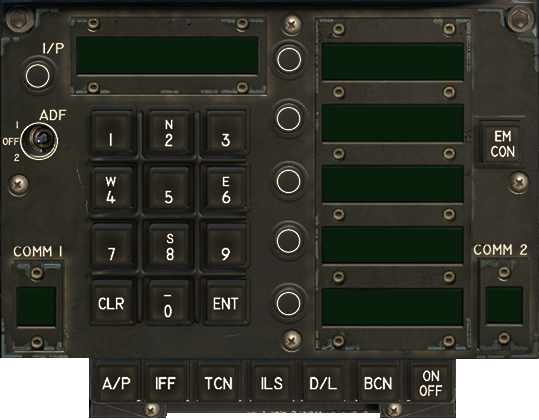
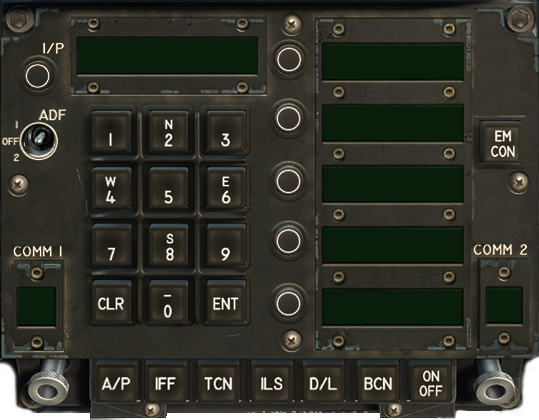
Finished FA-18c UFC

diff --git a/client/components/fa-18c/UFC.tsx b/client/components/fa-18c/UFC.tsx
@@ -4,10 +4,12 @@ import { udp } from "../../scripts/udp";
 import { OptionDisplays } from "./OptionDisplays";
 import { CommDisplays } from "./CommDisplays";
 import { ScratchpadDisplays } from "./ScratchpadDisplays";
+import { ADFmages } from "./ADFImages";
 
-const roundedButton = "absolute top-[19px] w-[56px] h-[56px] rounded-full";
-const squareButton = "absolute w-[56px] h-[56px]";
-const directionalButton = "absolute w-[40px] h-[43px]";
+const roundedButton = "absolute w-[33px] h-[33px] rounded-full";
+const squareButton = "absolute w-[42px] h-[42px]";
+const directionalButton = "absolute w-[40px] h-[30px]";
+const knob = "absolute w-[30px] h-[40px] rounded-lg bg-orange-800 opacity-25";
 
 const UFC = () => {
   return (
@@ -20,12 +22,143 @@ const UFC = () => {
           className="rounded-lg"
           priority={true}
         />
+        <ADFmages />
         <OptionDisplays />
         <CommDisplays />
         <ScratchpadDisplays />
         <button
-          className={`${roundedButton} left-[55px]`}
-          onClick={() => udp("Toggle", "UFC_COM1_BTN")}
+          className={`${squareButton} left-[92px] top-[111px]`}
+          onClick={() => udp("Toggle", "UFC_1")}
+        />
+        <button
+          className={`${squareButton} left-[148px] top-[111px]`}
+          onClick={() => udp("Toggle", "UFC_2")}
+        />
+        <button
+          className={`${squareButton} left-[204px] top-[111px]`}
+          onClick={() => udp("Toggle", "UFC_3")}
+        />
+        <button
+          className={`${squareButton} left-[92px] top-[167px]`}
+          onClick={() => udp("Toggle", "UFC_4")}
+        />
+        <button
+          className={`${squareButton} left-[148px] top-[167px]`}
+          onClick={() => udp("Toggle", "UFC_5")}
+        />
+        <button
+          className={`${squareButton} left-[204px] top-[167px]`}
+          onClick={() => udp("Toggle", "UFC_6")}
+        />
+        <button
+          className={`${squareButton} left-[92px] top-[224px]`}
+          onClick={() => udp("Toggle", "UFC_7")}
+        />
+        <button
+          className={`${squareButton} left-[148px] top-[224px]`}
+          onClick={() => udp("Toggle", "UFC_8")}
+        />
+        <button
+          className={`${squareButton} left-[204px] top-[224px]`}
+          onClick={() => udp("Toggle", "UFC_9")}
+        />
+        <button
+          className={`${squareButton} left-[92px] top-[280px]`}
+          onClick={() => udp("Toggle", "UFC_CLR")}
+        />
+        <button
+          className={`${squareButton} left-[148px] top-[280px]`}
+          onClick={() => udp("Toggle", "UFC_0")}
+        />
+        <button
+          className={`${squareButton} left-[204px] top-[280px]`}
+          onClick={() => udp("Toggle", "UFC_ENT")}
+        />
+        {/* --------------------------------- */}
+        <button
+          className={`${squareButton} left-[96px] top-[361px]`}
+          onClick={() => udp("Toggle", "UFC_AP")}
+        />
+        <button
+          className={`${squareButton} left-[147px] top-[361px]`}
+          onClick={() => udp("Toggle", "UFC_IFF")}
+        />
+        <button
+          className={`${squareButton} left-[198px] top-[361px]`}
+          onClick={() => udp("Toggle", "UFC_TCN")}
+        />
+        <button
+          className={`${squareButton} left-[250px] top-[361px]`}
+          onClick={() => udp("Toggle", "UFC_ILS")}
+        />
+        <button
+          className={`${squareButton} left-[302px] top-[361px]`}
+          onClick={() => udp("Toggle", "UFC_DL")}
+        />
+        <button
+          className={`${squareButton} left-[356px] top-[361px]`}
+          onClick={() => udp("Toggle", "UFC_BCN")}
+        />
+        <button
+          className={`${squareButton} left-[408px] top-[361px]`}
+          onClick={() => udp("Toggle", "UFC_ONOFF")}
+        />
+        {/* --------------------------------- */}
+        <button
+          className={`${squareButton} left-[480px] top-[120px]`}
+          onClick={() => udp("Toggle", "UFC_EMCON")}
+        />
+        {/* --------------------------------- */}
+        <button
+          className={`${roundedButton} left-[273px] top-[43px]`}
+          onClick={() => udp("Toggle", "UFC_OS1")}
+        />
+        <button
+          className={`${roundedButton} left-[272px] top-[102px]`}
+          onClick={() => udp("Toggle", "UFC_OS2")}
+        />
+        <button
+          className={`${roundedButton} left-[272px] top-[165px]`}
+          onClick={() => udp("Toggle", "UFC_OS3")}
+        />
+        <button
+          className={`${roundedButton} left-[272px] top-[224px]`}
+          onClick={() => udp("Toggle", "UFC_OS4")}
+        />
+        <button
+          className={`${roundedButton} left-[272px] top-[287px]`}
+          onClick={() => udp("Toggle", "UFC_OS5")}
+        />
+        {/* --------------------------------- */}
+        <button
+          className={`${roundedButton} left-[22px] top-[59px]`}
+          onClick={() => udp("Toggle", "UFC_IP")}
+        />
+        {/* --------------------------------- */}
+        <button
+          className={`${directionalButton} left-[20px] top-[108px]`}
+          onClick={() => udp("Send", "UFC_ADF INC")}
+        />
+        <button
+          className={`${directionalButton} left-[20px] top-[142px]`}
+          onClick={() => udp("Send", "UFC_ADF DEC")}
+        />
+        {/* --------------------------------- */}
+        <button
+          className={`${knob} left-[16px] top-[368px]`}
+          onClick={() => udp("Send", "UFC_COMM1_CHANNEL_SELECT DEC")}
+        />
+        <button
+          className={`${knob} left-[50px] top-[368px]`}
+          onClick={() => udp("Send", "UFC_COMM1_CHANNEL_SELECT INC")}
+        />
+        <button
+          className={`${knob} left-[464px] top-[368px]`}
+          onClick={() => udp("Send", "UFC_COMM2_CHANNEL_SELECT DEC")}
+        />
+        <button
+          className={`${knob} left-[500px] top-[368px]`}
+          onClick={() => udp("Send", "UFC_COMM2_CHANNEL_SELECT INC")}
         />
       </div>
     </div>

diff --git a/client/components/fa-18c/F18Image.tsx b/client/components/fa-18c/F18Image.tsx
@@ -1,0 +1,29 @@
+import React from "react";
+import Image from "next/image";
+
+type F18ImageProps = {
+  url: string;
+  w: number;
+  h: number;
+  value?: number;
+};
+
+const F18Image = ({ url, w, h, value = 1 }: F18ImageProps) => {
+  return (
+    <>
+      {value ? (
+        <Image
+          src={`/fa-18c/fa18c-${url}.jpg`}
+          alt="ioSwitch"
+          layout="fixed"
+          width={w}
+          height={h}
+        />
+      ) : null}
+    </>
+  );
+};
+
+const memoedF18Image = React.memo(F18Image);
+
+export { memoedF18Image, F18Image };

diff --git a/client/components/fa-18c/ADFImages.tsx b/client/components/fa-18c/ADFImages.tsx
@@ -1,0 +1,18 @@
+import React from "react";
+import { useRecoilValue } from "recoil";
+import { dcsDataState } from "../../atoms/dcsData";
+import { ADF_SW } from "./ADF_SW";
+
+const ADFmages = () => {
+  const dcsData = useRecoilValue(dcsDataState);
+
+  const ADFMode = parseInt(dcsData["UFC_ADF"] || "1");
+
+  return (
+    <div className="relative left-[29px] top-[125px] w-[22px] h-[31px] min-w-[22px]">
+      <ADF_SW mode={ADFMode} />
+    </div>
+  );
+};
+
+export { ADFmages };

diff --git a/client/components/fa-18c/ADF_SW.tsx b/client/components/fa-18c/ADF_SW.tsx
@@ -1,0 +1,19 @@
+import React from "react";
+import { memoedF18Image as F18Image } from "./F18Image";
+
+type ADF_SWProps = {
+  mode: number;
+};
+
+const ADF_SW = ({ mode }: ADF_SWProps) => {
+  return (
+    <>
+      {mode === 0 && <F18Image url="UFC-ADF-0" w={22} h={31} />}
+      {mode === 2 && <F18Image url="UFC-ADF-2" w={22} h={31} />}
+    </>
+  );
+};
+
+const memoedADF_SW = React.memo(ADF_SW);
+
+export { memoedADF_SW as ADF_SW };

diff --git a/socketServer/scripts/relevantData/fa-18c.ts b/socketServer/scripts/relevantData/fa-18c.ts
@@ -97,6 +97,14 @@ const relevantData: RelevantData[] = [
     max_length: 2,
     type: "string",
   },
+  {
+    identifier: "UFC_ADF",
+    address: 0x7416,
+    mask: 0x00c0,
+    max_value: 2,
+    shift_by: 6,
+    type: "integer",
+  },
 ];
 
 export { relevantData };
